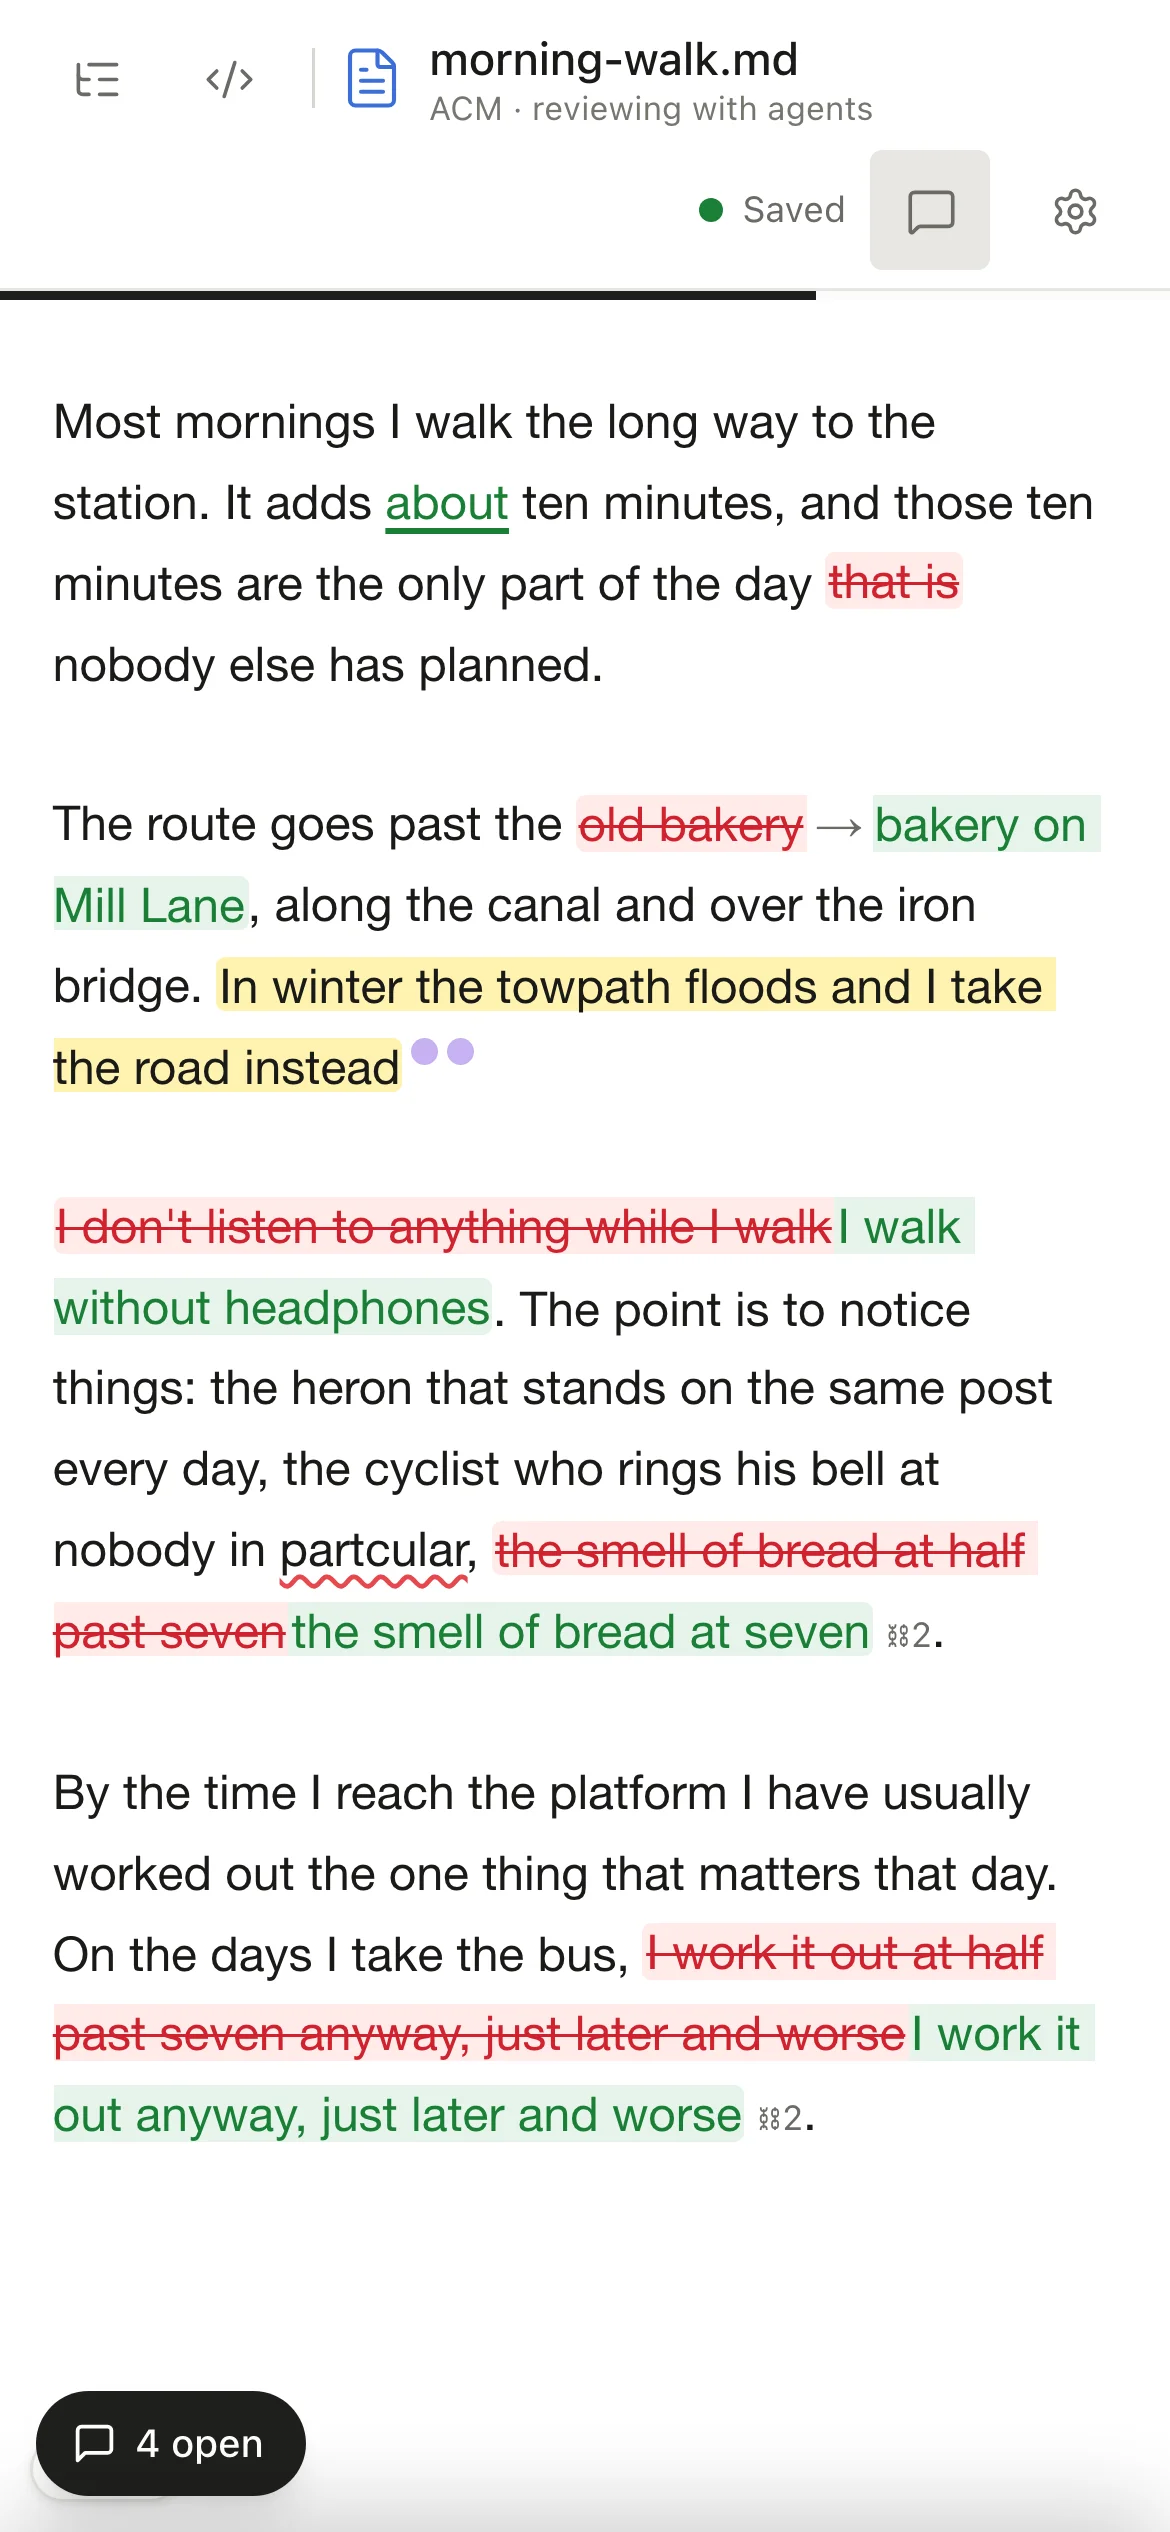
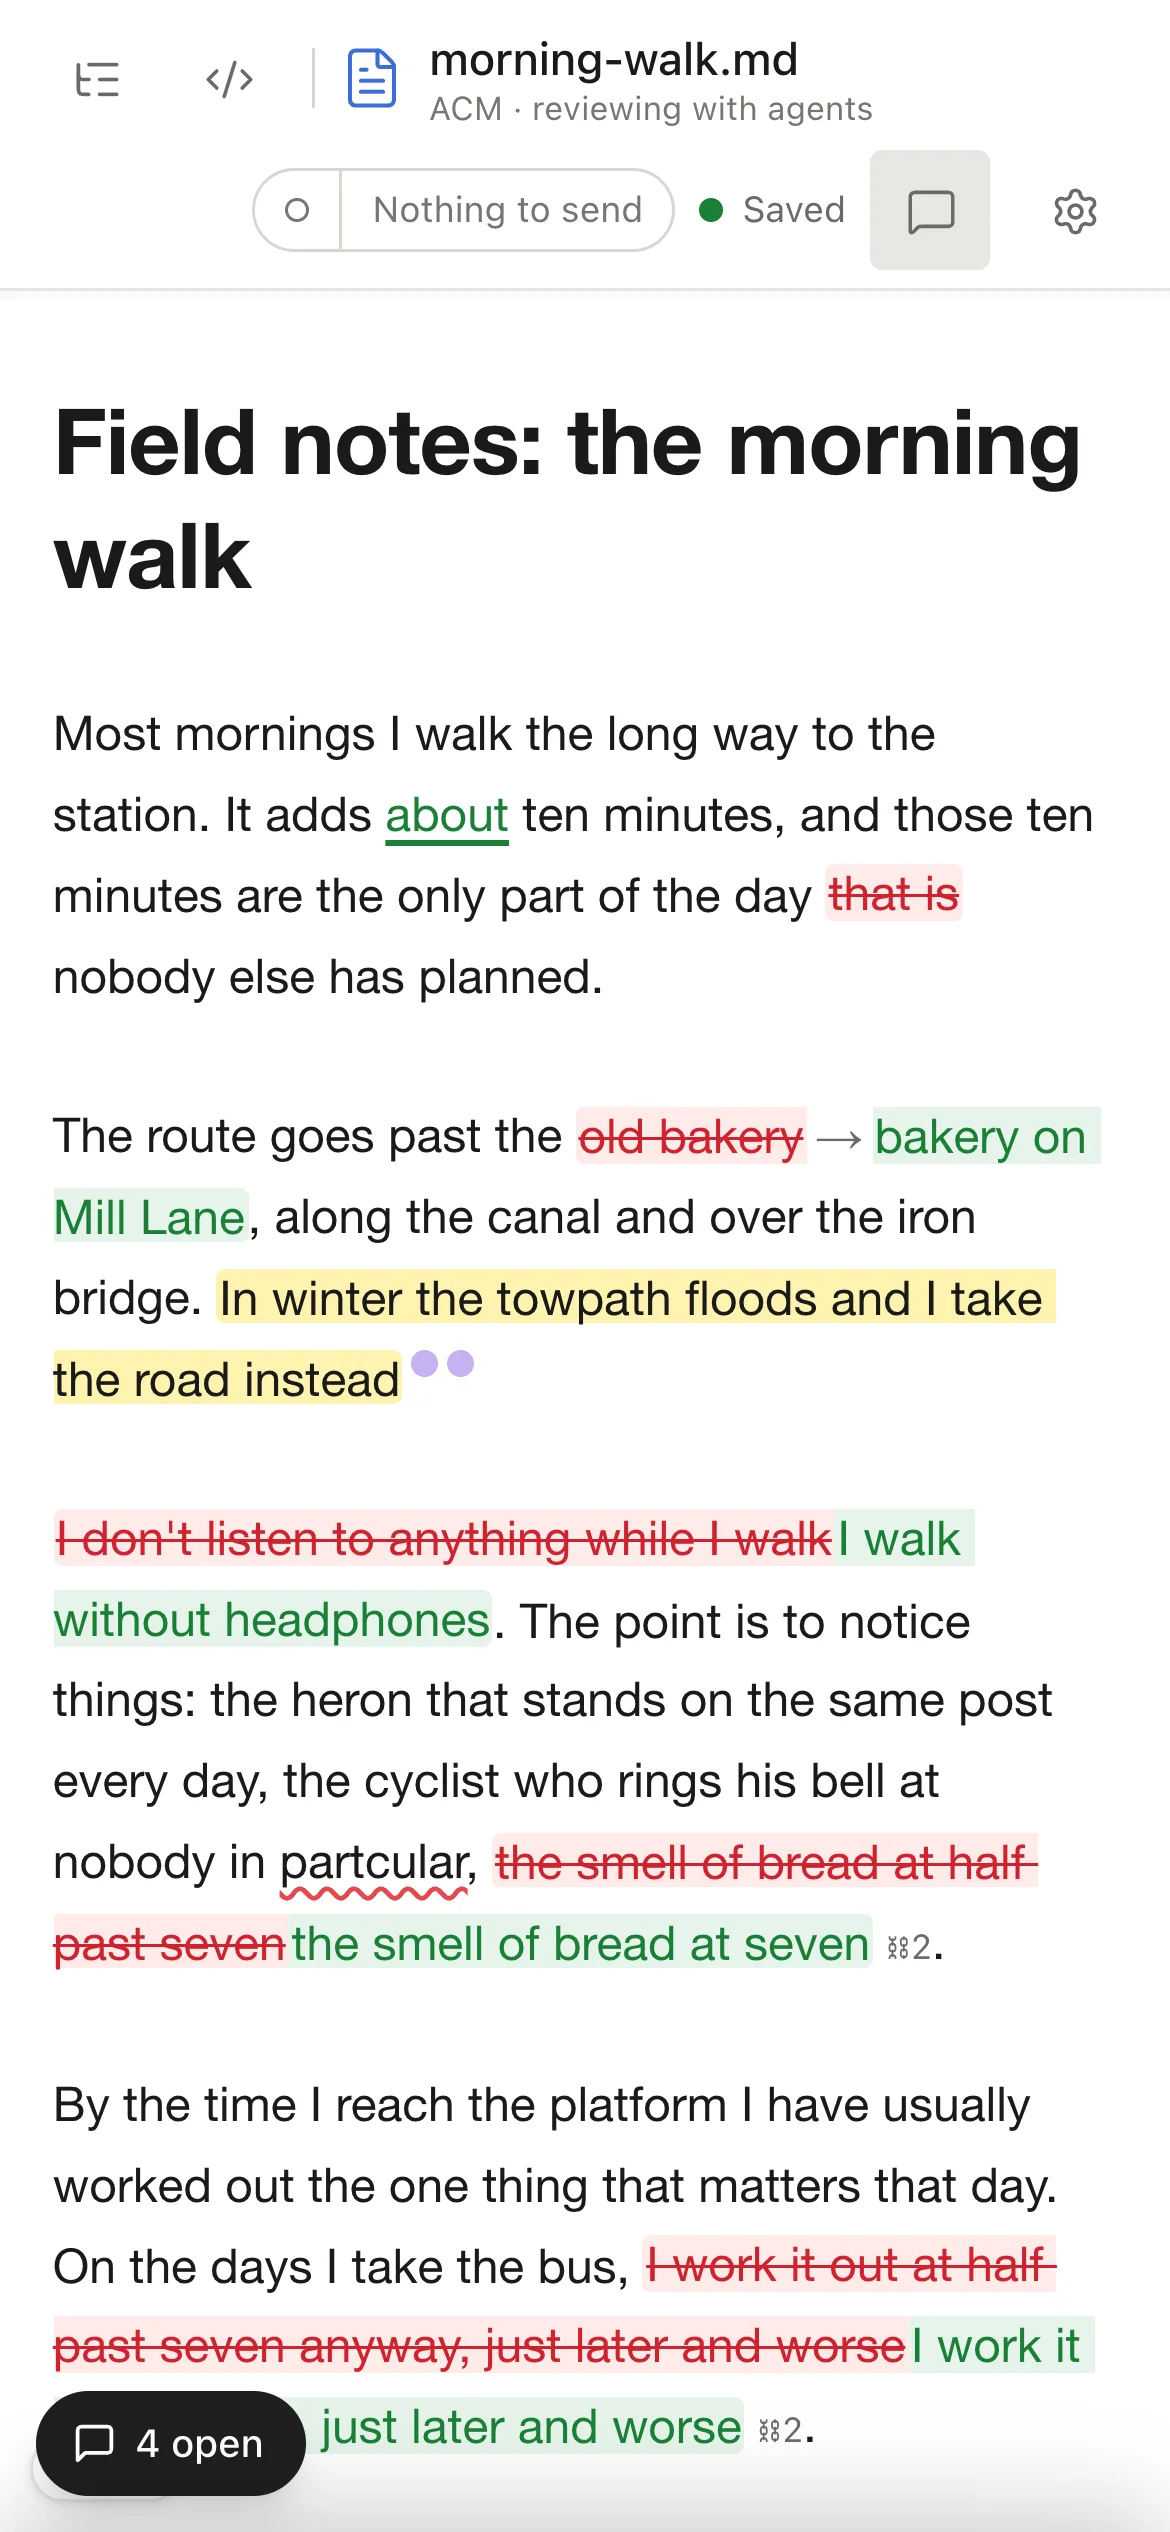
docs: the agent loop for acm edit --notify / --wait and the header's Send to agent (#31)

Changed region(s): [[0.0308, 0.156, 0.9538, 0.9672], [0.0, 0.0624, 0.6769, 0.1248]]

diff --git a/docs/agents.md b/docs/agents.md
@@ -49,6 +49,37 @@ The [CLI reference](cli.md) lists every command, and the skill holds the full ag
 
 When you click **Ask agent** on a thread, `acm threads` marks it `[edit requested]`, so an agent knows to answer with a SUGGEST card.
 
+## Waking the agent from the editor
+
+An agent that opens the document with `acm edit <file.md> --notify` is woken each time you hand it work, so you never switch to its chat to say "I left comments". For as long as the editor runs, the command prints one line on stdout per hand-over and nothing else (the editor's own messages go to stderr):
+
+```text
+acm: ask #126zf67 Luis "systematic"
+acm: comment #115bygy Luis "in the way it builds"
+acm: review 3 threads waiting (2 comments, 1 edit request) - run acm threads
+acm: pending #115bygy Luis "in the way it builds"
+```
+
+- `ask` is **Ask agent**, which always wakes the agent.
+- `comment` is a comment or reply of yours, sent only when **Notify agent on each comment** is on (off by default).
+- `review` is **Send to agent** in the header: one line for everything waiting, sent when you finish a round.
+- `pending` opens a new listener with the work you already sent that the agent has not answered, so nothing sent while no agent listened is lost.
+- `closed` means the editor stopped; the command exits 1.
+
+A thread is the agent's turn when your name (the **Author** setting) wrote its latest comment. `acm threads` marks those threads `[your turn]`, so the agent's loop is one rule: on each line, run `acm threads`, answer the `[your turn]` threads, and wait for the next line.
+
+The header pill shows whether an agent is listening and how many threads **Send** would hand over; it counts only threads not sent yet, so it reads **Nothing to send** once the agent has them. If the editor is already open on the file, `--notify` attaches to it instead of starting a second editor, so your clicks in that page reach the agent.
+
+In Claude Code, run the listener under the Monitor tool, which wakes the agent on each stdout line:
+
+```text
+Monitor: acm edit essay.md --notify --no-open
+```
+
+A Monitor watch ends after at most 30 minutes. When it ends, start it again: if it started the editor, the editor stops with it and the next `--notify` starts a fresh one, so start the editor once in the background (`acm edit essay.md --no-open`) and point the Monitor at `--notify`, which then only attaches.
+
+For a harness that wakes only when a command finishes, use `acm edit <file.md> --wait`: it exits with the first line, or at once when work you sent is still unanswered, and leaves the editor running (it starts one in the background if none is open). Act on the work, then run `--wait` again.
+
 ## Which document the agent edits
 
 The `acm` commands pick the document in this order:

diff --git a/skills/acm-review/SKILL.md b/skills/acm-review/SKILL.md
@@ -366,6 +366,27 @@ Skip any section the human is still actively rewriting.
   with your own judgment conservatively — it catches what you've gone blind to after
   many passes.
 
+## Being woken by the person (acm edit --notify)
+
+The person can wake you from the editor instead of switching to your chat: **Ask agent** on a
+thread, each comment when they turn on "Notify agent on each comment", and **Send N to agent**
+at the end of a round. You hear it by listening:
+
+- **Claude Code:** start the editor once in the background (`acm edit <file.md> --no-open`),
+  then run `acm edit <file.md> --notify --no-open` under the **Monitor** tool. It attaches to
+  the open editor and prints one stdout line per hand-over, each a wake:
+  `acm: ask #id Luis "anchor"`, `acm: comment #id …`, `acm: review 3 threads waiting (…)`,
+  and on attach `acm: pending #id …` for work sent while nobody listened. `acm: closed …`
+  means the editor stopped. A Monitor ends after 30 minutes: re-arm it on expiry.
+- **Harnesses that wake only on a finished command:** run `acm edit <file.md> --wait` as a
+  background job. It exits with the first line (at once if sent work is unanswered) and
+  leaves the editor running; act, then run it again.
+
+On every wake, one rule: `acm threads`, answer each `[your turn]` thread (its latest comment is
+the person's), `[edit requested]` ones first with a SUGGEST, then go back to listening. Don't
+act on the line's text alone; the doc is the source of truth. Answering a thread (any reply of
+yours) takes it off `[your turn]`, so a later `--wait` won't wake you for it again.
+
 ## Workflow
 
 1. Read the doc; build the thread/anchor map with `scanTokens`/`groupThreads`.
@@ -391,7 +412,9 @@ with no editor up they write the file directly. Either way the editor reflects t
 result within ~1s — and they refuse rather than clobber on conflict.
 
 ```
-acm threads [--json]              # read/verify: each thread's anchor, authors, count, [SUGGEST], [seen], [edit requested]
+acm threads [--json]              # read/verify: each thread's anchor, authors, count, [SUGGEST], [seen], [edit requested], [your turn]
+acm edit <file.md> --notify       # listen: one stdout line per hand-over from the person (run under Monitor)
+acm edit <file.md> --wait         # listen once: exit on the first hand-over (or at once if some is unanswered)
 acm comment "<span>" "<text>"     # NEW comment anchored on the unique prose <span>: {==span==}{>>@you: text<<}
 acm comment … --group <id>        # tag the note as part of group <id> (NOTE[g:id]: …; Resolve all in the GUI)
 acm reply "<phrase>" "<text>"     # reply to the thread whose comment matches <phrase> (= acm comment --reply/-r)

diff --git a/docs/reviewing.md b/docs/reviewing.md
@@ -44,7 +44,13 @@ Comments can share a group too (an agent writes them with `acm comment --group <
 - **Reply** adds a comment to the thread. **Suggest edit** on a thread proposes new wording for its span.
 - **Mark seen** records that you have read a thread. Agents see the same seen state in `acm threads`.
 - **Resolve** removes the whole thread, comments and anchor markup, keeps the prose and moves to the next card. A resolved thread is gone from the file; [history](#undo-and-history) still has it.
-- **Ask agent** on a comment thread with a highlighted span replies "please suggest an edit" and marks the thread seen. An agent running `acm threads` sees it marked `[edit requested]` and answers with a SUGGEST card.
+- **Ask agent** on a comment thread with a highlighted span replies "please suggest an edit" and marks the thread seen. An agent running `acm threads` sees it marked `[edit requested]` and answers with a SUGGEST card. A listening agent is woken at once.
+
+## Send your comments to the agent
+
+The pill in the header shows whether an agent is listening (a filled dot) and **Send N to agent**, the threads where you had the last word that the agent has not been sent yet. Press **Send** at the end of a review round to wake the agent once for all of them; a message confirms it, or says no agent is listening (the work then reaches the next one that does).
+
+Click the status side of the pill, or open **Settings > Review**, for **Notify agent on each comment**. Off (the default), your comments wait for **Send**; on, every comment you post wakes the agent. An agent listens with `acm edit <file.md> --notify`; see [Agents](agents.md#waking-the-agent-from-the-editor).
 
 ## Move through the review by keyboard
 

diff --git a/docs/cli.md b/docs/cli.md
@@ -67,6 +67,8 @@ Opens one document in the editor, creating the file if it is missing. With no fi
 | `--allow-host <name>` | Also accept requests for this host name, such as the Mac's Tailscale name; repeat for several | `ACM_ALLOWED_HOSTS`, else this Mac's Tailscale name when Tailscale is up |
 | `--asset-root <dir>` | The folder images may load from | `ACM_ASSET_ROOT`, else the document's git repository, else its folder |
 | `--no-open` | Do not open a browser tab (`ACM_NO_OPEN=1` does the same; a set `$BROWSER` is used as the opener) | open one |
+| `--notify` | Also print one stdout line each time you hand the agent work, for as long as the editor runs; attaches to an editor already open on the file. See [Waking the agent](agents.md#waking-the-agent-from-the-editor) | off |
+| `--wait` | Exit with the first such line, or at once when sent work is unanswered; the editor keeps running | off |
 
 ```text
 --8<-- "edit.txt"
@@ -90,6 +92,7 @@ Lists every comment thread, SUGGEST cards included: id, message count, authors, 
 - `[seen]` marks a thread you marked seen in the editor; an unmarked line is unseen.
 - `[suggestion]` marks a thread on an inline suggestion, which has no seen state.
 - `[edit requested]` marks a thread where someone asked for an edit (**Ask agent**, or a reply reading `please suggest an edit`) and no SUGGEST card has answered yet.
+- `[your turn]` marks a thread whose latest comment is yours (the editor's **Author** setting): the agent owes it an answer. The last line counts them.
 - `--json` prints the same list as JSON.
 
 ## acm comment { data-toc-label="comment" }
